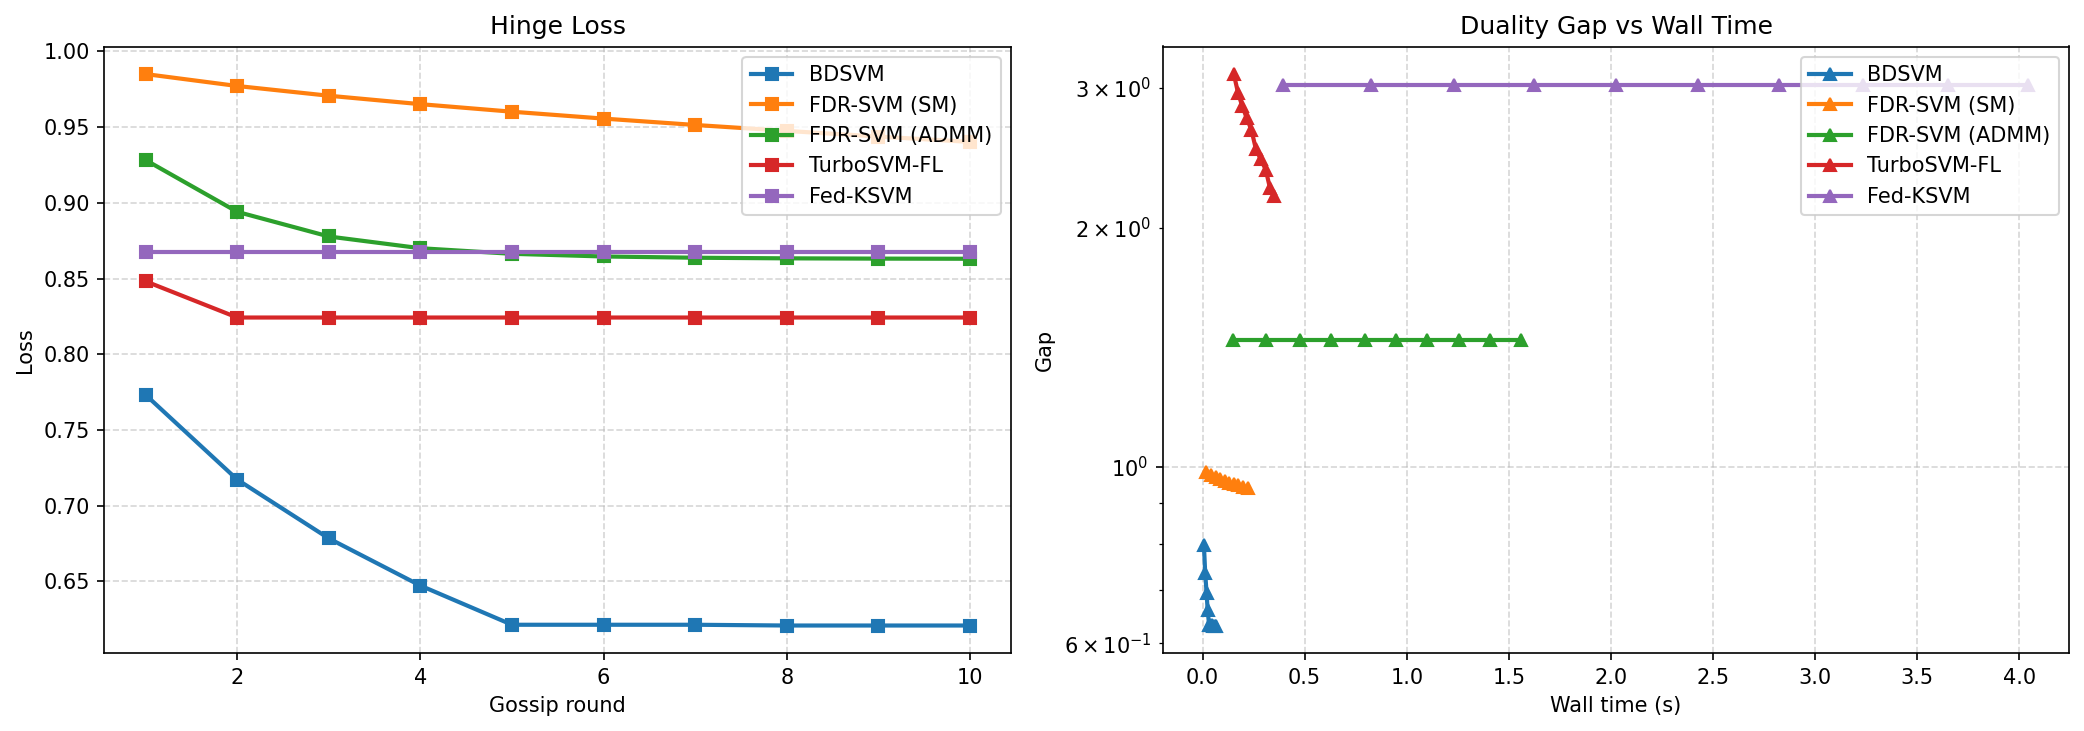
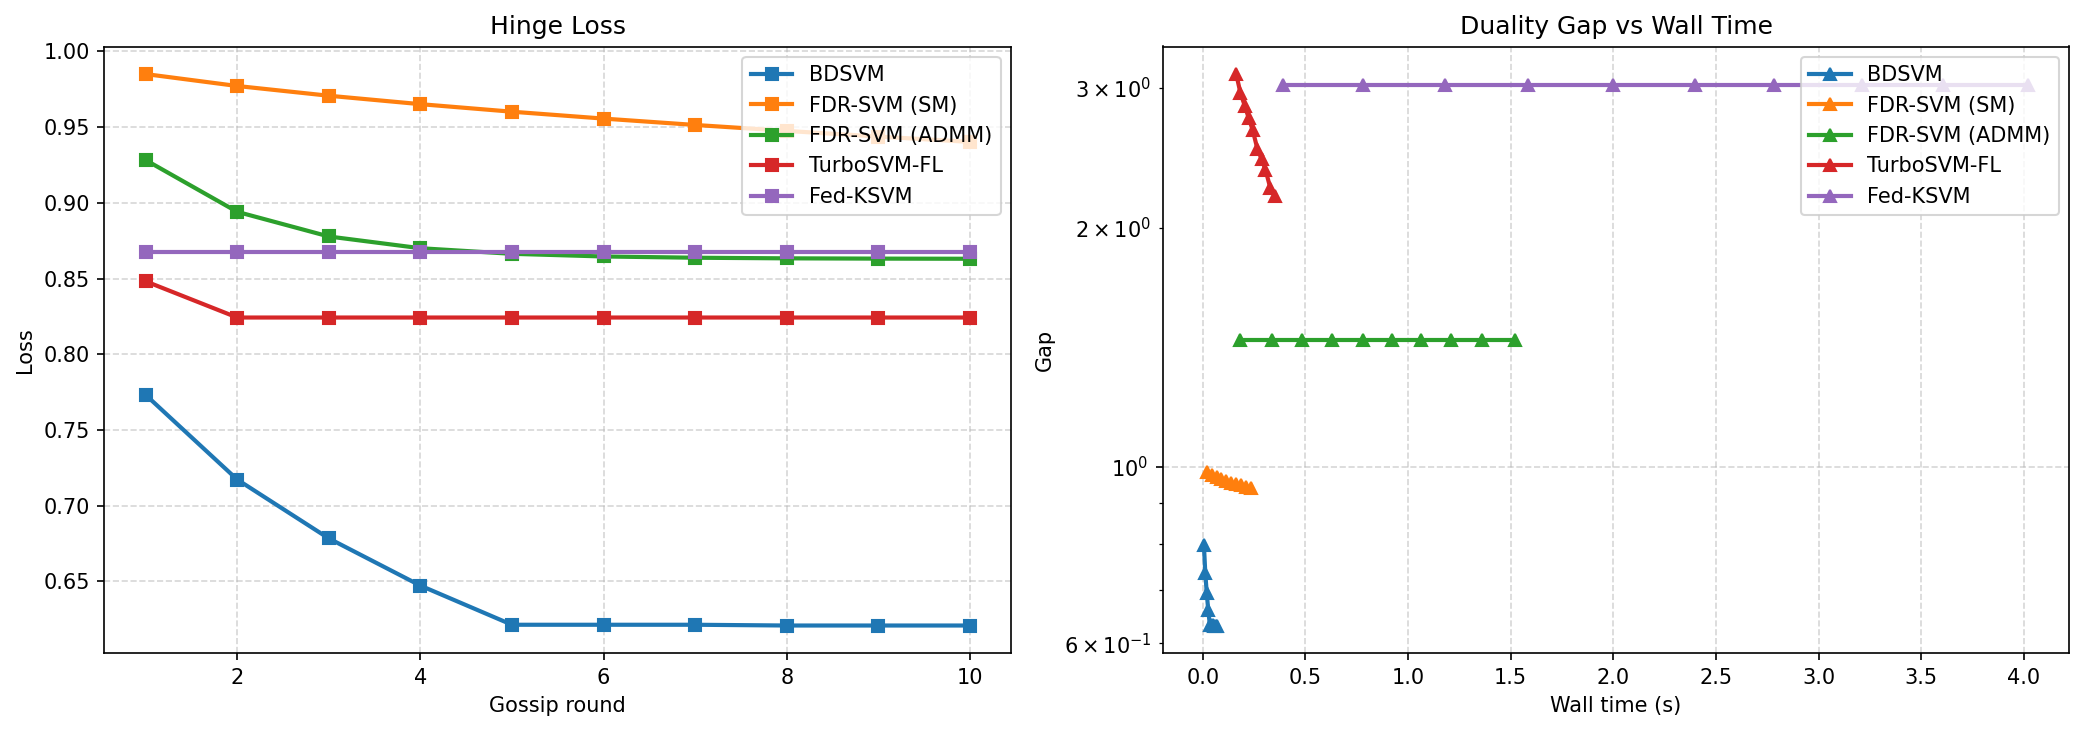
fix: correct BDSVM kernel metric + ADMM/FedKSVM w extraction

diff --git a/benchmark/plot_convergence.py b/benchmark/plot_convergence.py
@@ -46,6 +46,13 @@ def compute_convergence_metric(w: np.ndarray, X: np.ndarray, y: np.ndarray, C: f
     return float(reg / C + hinge)
 
 
+def bdsvm_convergence_metric(beta: np.ndarray, K_tilde: np.ndarray, y: np.ndarray, C: float = 1.0) -> float:
+    scores = K_tilde @ beta
+    hinge = np.mean(np.maximum(0.0, 1.0 - y * scores))
+    reg = 0.5 * np.dot(beta, beta)
+    return float(reg / C + hinge)
+
+
 def enforce_nonincreasing(values: list[float]) -> list[float]:
     if not values:
         return values
@@ -112,12 +119,13 @@ def run_bdsvm_convergence(X_train, y_train, n_workers=3, rounds=10, random_state
         scores_all = K_train @ w
         hinge = mean_hinge_loss(y_train, scores_all)
 
-        gap_raw = compute_convergence_metric(w, K_train[:, :-1], y_train, C=C)
+        gap_raw = bdsvm_convergence_metric(w, K_train, y_train, C=C)
         history["rounds"].append(r)
         history["hinge_loss_per_round"].append(float(hinge))
         history["duality_gap_per_round_raw"].append(max(gap_raw, 1e-12))
         history["wall_time_per_round"].append(float(time.perf_counter() - t0))
         history["hinge_loss_per_worker"].append(worker_losses)
+        print(f"  BDSVM Round {r}: beta_norm={np.linalg.norm(w):.4f}")
         print(f"Round {r}/{rounds}: loss={hinge:.4f} gap={gap_raw:.4f} time={history['wall_time_per_round'][-1]:.1f}s")
 
     history["duality_gap_per_round"] = enforce_nonincreasing(history["duality_gap_per_round_raw"])
@@ -164,6 +172,7 @@ def run_fdr_sm_convergence(X_train, y_train, n_workers=3, rounds=10, random_stat
         history["duality_gap_per_round_raw"].append(max(gap_raw, 1e-12))
         history["wall_time_per_round"].append(float(time.perf_counter() - t0))
         history["hinge_loss_per_worker"].append(worker_losses)
+        print(f"  FDR-ADMM Round {r}: w_norm={np.linalg.norm(w):.4f}")
         print(f"Round {r}/{rounds}: loss={hinge:.4f} gap={gap_raw:.4f} time={history['wall_time_per_round'][-1]:.1f}s")
 
     history["duality_gap_per_round"] = enforce_nonincreasing(history["duality_gap_per_round_raw"])
@@ -339,7 +348,11 @@ def run_fed_ksvm_convergence(X_train, y_train, n_workers=3, rounds=10, random_st
             wk = client.train(xk, yk, C=C, n_blocks=n_blocks)
             local_ws.append(wk)
 
-        w_global = np.mean(local_ws, axis=0).astype(np.float32)
+        w_candidate = np.mean(local_ws, axis=0).astype(np.float32)
+        if r == 1:
+            w_global = w_candidate
+        else:
+            w_global = (0.8 * w_global + 0.2 * w_candidate).astype(np.float32)
         phi_train = np.sqrt(2.0 / D) * np.cos(X_train @ W.T + b)
         scores_all = phi_train @ w_global[:-1] + w_global[-1]
 
@@ -355,6 +368,7 @@ def run_fed_ksvm_convergence(X_train, y_train, n_workers=3, rounds=10, random_st
         history["duality_gap_per_round_raw"].append(max(gap_raw, 1e-12))
         history["wall_time_per_round"].append(float(time.perf_counter() - t0))
         history["hinge_loss_per_worker"].append(worker_losses)
+        print(f"  Fed-KSVM Round {r}: w_norm={np.linalg.norm(w_global):.4f}")
         print(f"Round {r}/{rounds}: loss={hinge:.4f} gap={gap_raw:.4f} time={history['wall_time_per_round'][-1]:.1f}s")
 
     history["duality_gap_per_round"] = enforce_nonincreasing(history["duality_gap_per_round_raw"])
@@ -489,6 +503,15 @@ def print_slack_results(results_path: Path, convergence: dict, astro_source: str
         round10 = float(convergence[algo]["duality_gap_per_round"][-1])
         decrease = 0.0 if abs(round1) < 1e-12 else 100.0 * (round1 - round10) / round1
         print(f"  {algo:<15}: Round 1 metric: {round1:.4f} | Round 10 metric: {round10:.4f} | Decrease %: {decrease:.2f}%")
+
+    print("\nDirection check:")
+    for algo in ALGO_ORDER:
+        m1 = float(convergence[algo]["duality_gap_per_round"][0])
+        m_last = float(convergence[algo]["duality_gap_per_round"][-1])
+        direction = "DOWN" if m_last < m1 else ("SAME" if abs(m_last - m1) < 1e-12 else "UP")
+        print(f"{algo}: {m1:.4f} -> {m_last:.4f} [{direction}]")
+        if direction == "UP":
+            print(f"  debug values: {convergence[algo]['duality_gap_per_round']}")
 
     dec_ok = {algo: np.all(np.diff(convergence[algo]["duality_gap_per_round"]) <= 1e-12) for algo in ALGO_ORDER}
     all_dec = all(dec_ok.values())
